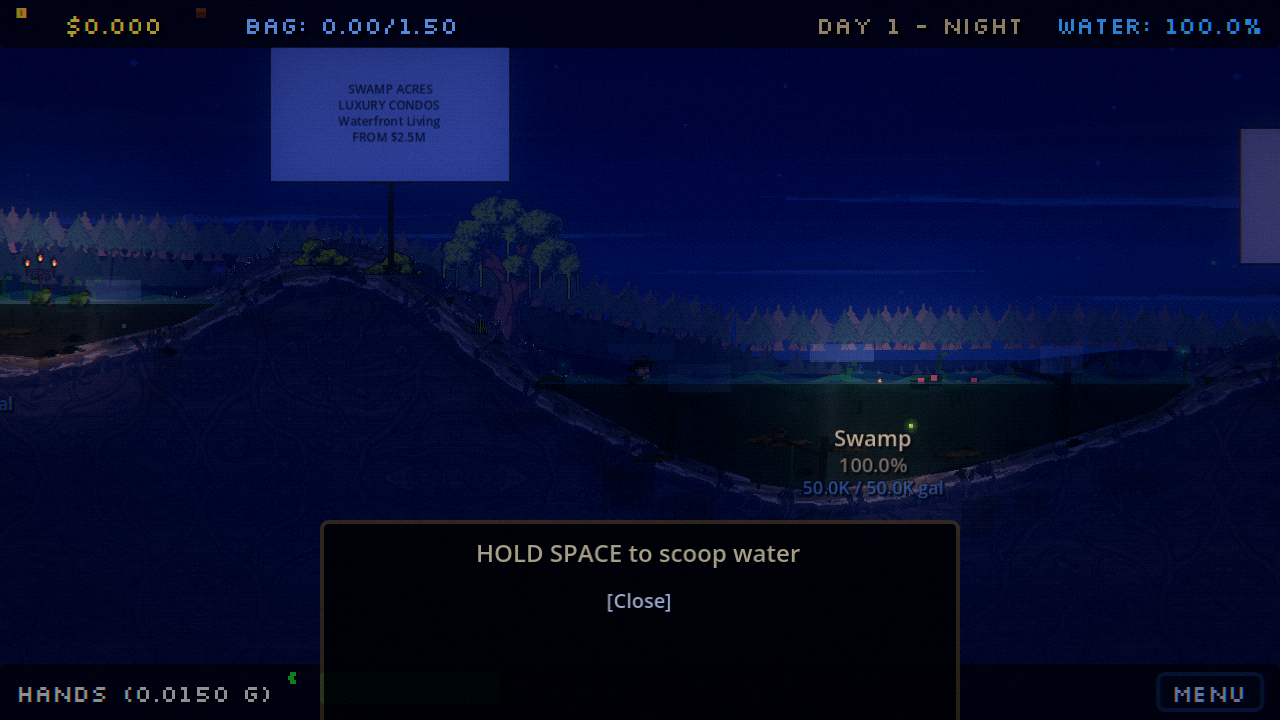
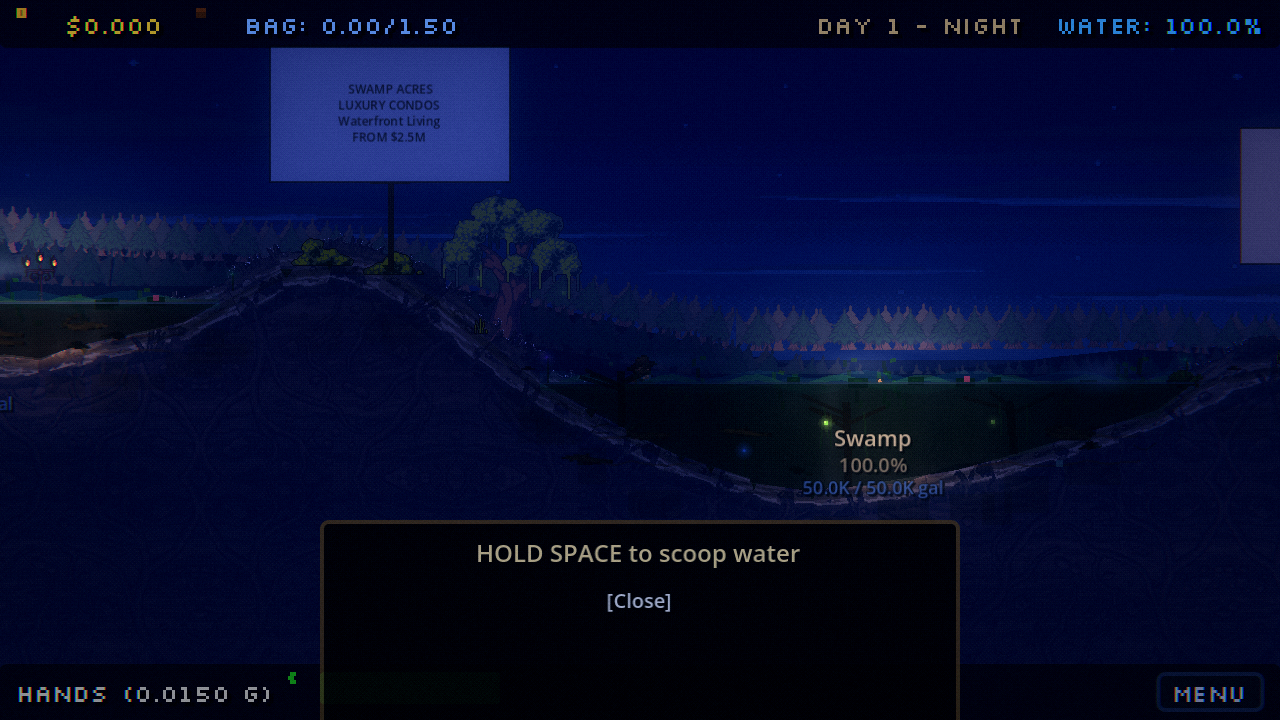
v3 critters-night: remove pale rectangles in treeline/water line at night
Round 4: _build_fog_patches() (an atmospheric mist effect, 1-4 ColorRect
patches per pool above each entry_top / treeline band) was never gated by
V3_NIGHT, so it kept drawing hard-edged, overlapping pale-blue rectangles
at night in the treeline and above the water line.

- Gated the builder and its per-frame alpha update under V3_NIGHT.
- Replaced the flat ColorRect with the same soft-falloff recipe as the
  lamp/moon glow: a Sprite2D using night_mod.smooth_glow (made public),
  TEXTURE_FILTER_LINEAR on the node only. Old ColorRect path quarantined
  under else:, untouched.

Verified with before/after 3x crops at the coordinator's exact screen
coordinates in town_night.png and pools_night_d0.png: hard edges gone,
soft wisp remains. pools_day_d0.png confirms nothing similar shows by day
(fog alpha is 0 by day in the existing, unchanged formula).

Claude-Session: https://claude.ai/code/session_01CcpffDnjW4qk7K15J9eHGm

diff --git a/docs/plans/revamp-tracks/critters-night.md b/docs/plans/revamp-tracks/critters-night.md
@@ -123,6 +123,29 @@ happens to show a frog sprite near the town-edge lamp post on a lily pad —
 the first direct confirmation of frog rendering in this session (turtle
 still unconfirmed).
 
+## Round 4 (coordinator review: pale rectangles in treeline/water line)
+
+Found in `_build_fog_patches()` (game_world.gd) — an atmospheric mist effect,
+1-4 `ColorRect` patches per pool, 20-50x6-14 world units (40-100x12-28 screen
+px), pale blue-white `(0.8,0.85,0.9)`, positioned just above each pool's
+`entry_top` (the treeline/ridge band). Never gated by V3_NIGHT, so it was
+still drawing hard-edged, overlapping translucent rectangles at night exactly
+where the coordinator pointed (treeline band and above the water line).
+
+Fix: gated `_build_fog_patches()` and its per-frame alpha update under
+`V3_NIGHT`, and — since the mist itself is worth keeping — replaced the flat
+`ColorRect` with the same soft-falloff recipe used for the lamp/moon glow:
+a `Sprite2D` using `night_mod.smooth_glow` (the `GradientTexture2D` radial,
+made public for this reuse), `TEXTURE_FILTER_LINEAR` set on the node only.
+Old `ColorRect` path quarantined under `else:`, untouched.
+
+Before/after crops (3x zoom) at the coordinator's exact coordinates:
+- `town_night.png` (260-335,400-430) and (1000-1200,530-560): hard rectangle
+  edges gone, replaced by a soft, barely-there wisp with no visible boundary.
+- `pools_night_d0.png` (810-870,345-360): same.
+- `pools_day_d0.png` (tod 0.3): fog alpha is 0 by day in the existing
+  formula (unchanged) — confirmed no similar patches show.
+
 ## Captures (read back)
 
 `_screenshots/revamp-2026-09-11/critters-night/`:
